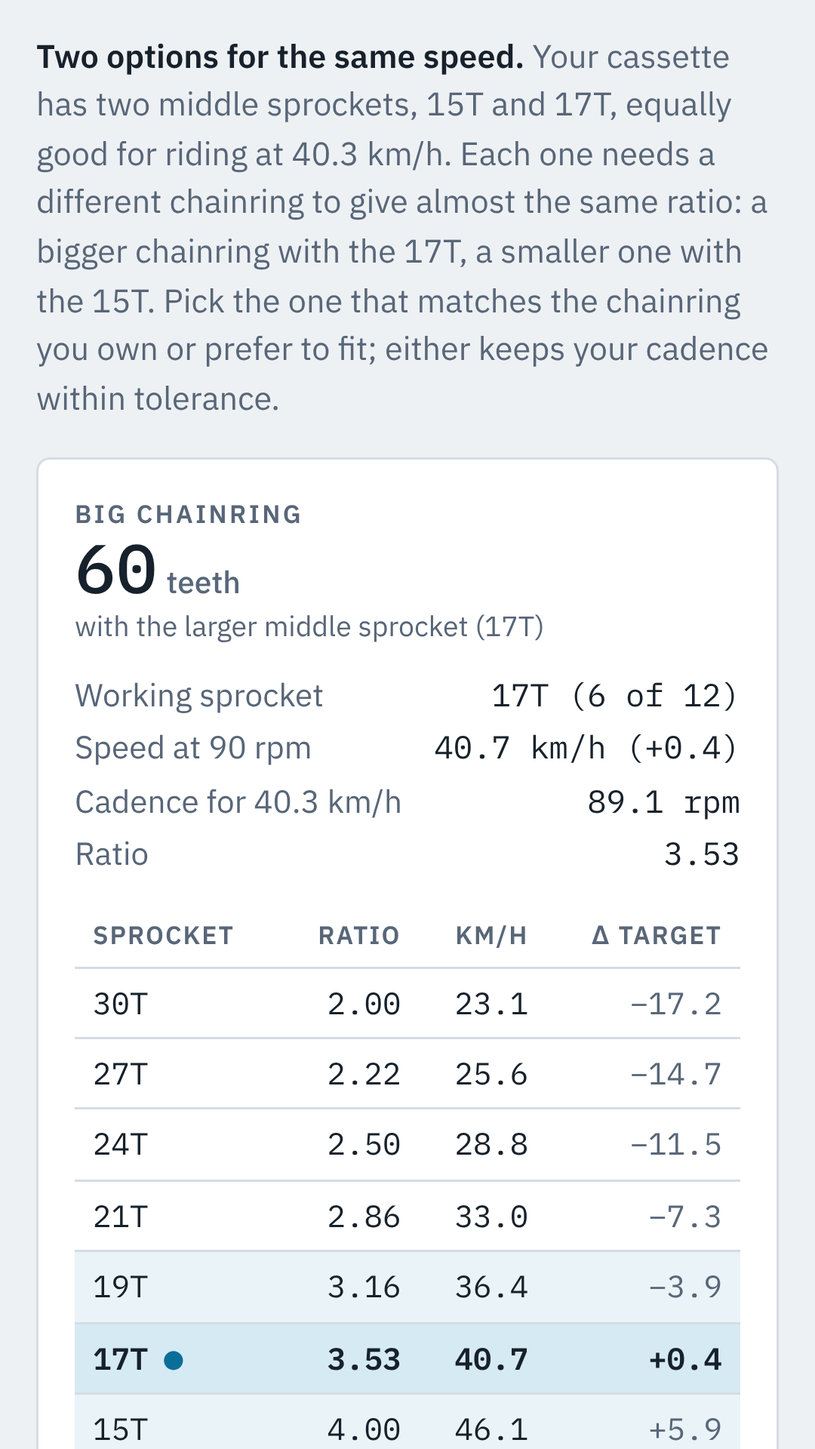
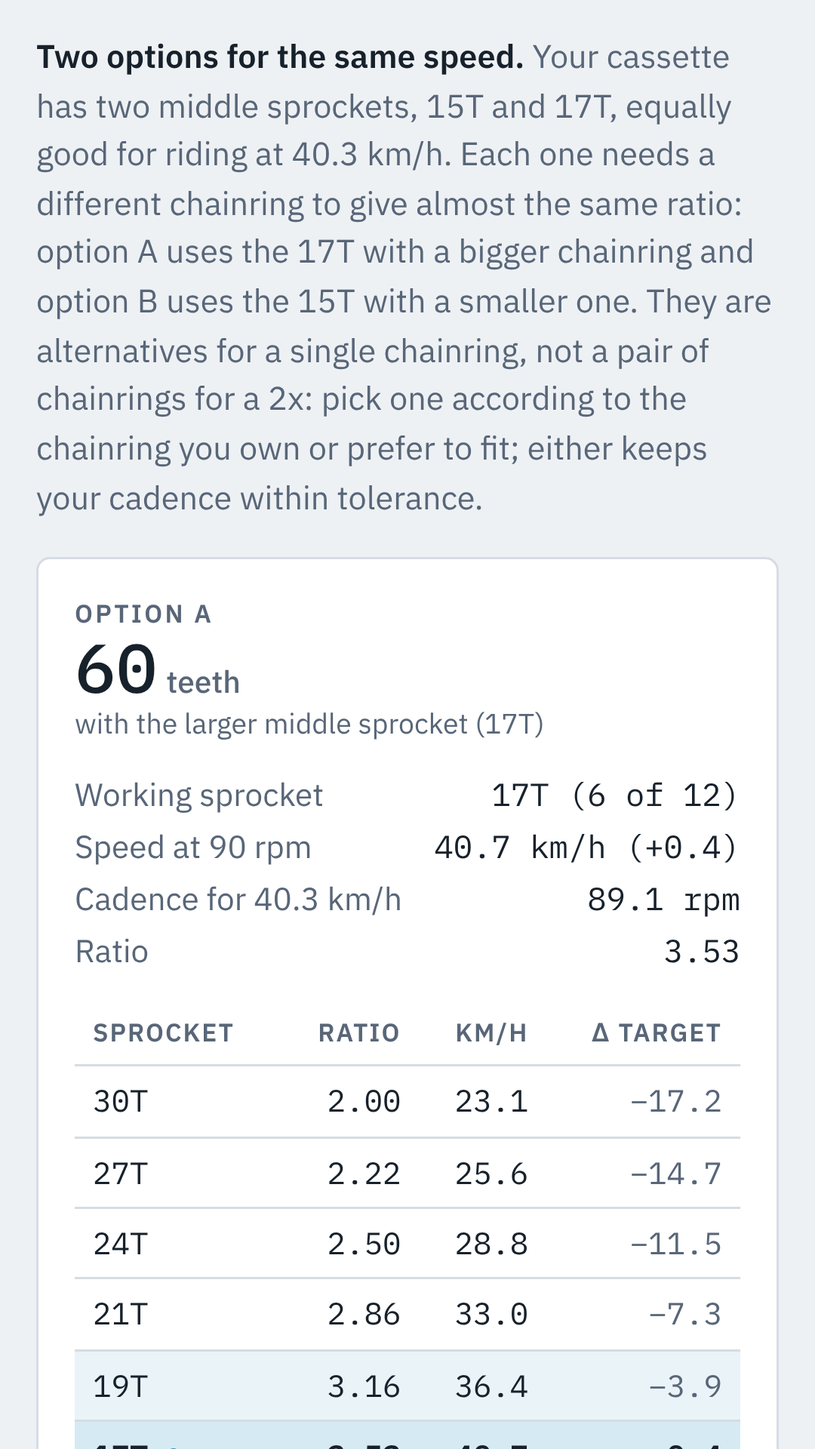
feat: etiquetas «Opción A» y «Opción B» en lugar de plato grande/pequeño
«Plato grande» y «plato pequeño» podían confundirse con una pareja de platos de un 2x.
Las dos tarjetas pasan a llamarse Opción A (piñón central mayor) y Opción B (piñón central
menor), y la explicación aclara que son alternativas para un mismo plato.
Textos, README, CHANGELOG, ficha de Play, manifest y capturas/gráfico de Play actualizados.

Claude-Session: https://claude.ai/code/session_01HU79VpV1XnotLDyT5Vd8zc

diff --git a/index.html b/index.html
@@ -4,7 +4,7 @@
 <meta charset="utf-8">
 <meta name="viewport" content="width=device-width, initial-scale=1, viewport-fit=cover">
 <title>Calculadora de desarrollos</title>
-<meta name="description" content="Calculadora de desarrollos para triatlón y contrarreloj: encuentra el plato con la mejor línea de cadena para tu velocidad objetivo: una opción grande y otra pequeña, según el piñón central que prefieras.">
+<meta name="description" content="Calculadora de desarrollos para triatlón y contrarreloj: encuentra el plato con la mejor línea de cadena para tu velocidad objetivo, con dos opciones según el piñón central que prefieras.">
 <meta name="theme-color" content="#EEF1F4">
 <meta name="color-scheme" content="light dark">
 <meta name="mobile-web-app-capable" content="yes">
@@ -322,7 +322,7 @@ function better(a, b) { // a mejor que b: más centrado, y a igualdad menor erro
   return a.off < b.off || (a.off === b.off && Math.abs(a.dv) < Math.abs(b.dv));
 }
 // Solo platos de dentado par. Se proponen hasta dos platos, cada uno anclado a uno de los dos piñones centrales de la banda:
-// «high» = el piñón central mayor (da el plato más grande) y «low» = el menor (da el plato más pequeño). En cada ancla se elige el plato par
+// «high» (Opción A) = el piñón central mayor, que pide el plato mayor, y «low» (Opción B) = el menor, que pide el plato menor. En cada ancla se elige el plato par
 // que encaja con menor error de velocidad. Anclar siempre al mismo piñón hace que, al subir la potencia, el plato propuesto solo suba o se mantenga
 // (salvo en los extremos del rango de platos). Con un solo piñón central (banda de nº impar) hay una única propuesta, «one».
 // Si ninguna ancla tiene plato que encaje pero otros sí, se propone el mejor de ellos (más centrado y, a igualdad, menor error de velocidad).
@@ -386,7 +386,7 @@ function parseCogs(text) {
 var DICT = {
   es: {
     title: "Calculadora de desarrollos",
-    sub: "Triatlón y contrarreloj. Encuentra el plato con la mejor línea de cadena para tu velocidad de carrera (piñones centrales del cassette, a tu cadencia): una opción de plato grande y otra de plato pequeño.",
+    sub: "Triatlón y contrarreloj. Encuentra el plato con la mejor línea de cadena para tu velocidad de carrera (piñones centrales del cassette, a tu cadencia), con dos opciones alternativas.",
     lbl_cassette: "Cassette instalado", lbl_custom: "Dientes del cassette (11–13)",
     lbl_power: "Potencia media objetivo (W)", lbl_cad: "Cadencia media objetivo (rpm)", lbl_cda: "CdA (m²)",
     adv: "Ajustes avanzados", lbl_mass: "Masa ciclista + bici (kg)", lbl_crr: "Crr (rodadura)", lbl_rho: "Densidad del aire (kg/m³)",
@@ -399,7 +399,7 @@ var DICT = {
     lbl_vforce: "Forzar velocidad (km/h)", ph_vforce: "desde potencia", hint_vforce: "Si lo rellenas, ignora potencia y CdA",
     lbl_ftp: "FTP (W)", ph_ftp: "opcional", hint_ftp: "Con FTP, la tabla de subidas muestra también el % de FTP",
     c_title: "Subidas: coste de cada marcha a {cad} rpm", c_chain: "Plato",
-    c_sub: "Potencia necesaria (W) para mantener la velocidad de cada piñón a {cad} rpm en cada pendiente, sin viento y a velocidad constante. Con el plato grande y piñones pequeños en cuesta salen cifras inasumibles: está pensado para ver ese coste.",
+    c_sub: "Potencia necesaria (W) para mantener la velocidad de cada piñón a {cad} rpm en cada pendiente, sin viento y a velocidad constante. Con un plato grande y piñones pequeños en cuesta salen cifras inasumibles: está pensado para ver ese coste.",
     c_grade: "Pendiente", c_cog: "Piñón", c_hidden: "— = más de {w} W (oculto)", c_noftp: "Introduce tu FTP para ver también el % de FTP y el rango de esfuerzo de cada celda.",
     c_zones: "Esfuerzo típico según el % de FTP (IF)",
     z0: "Rodajes de recuperación", z1: "Entrenamiento en ritmo de resistencia",
@@ -423,21 +423,21 @@ var DICT = {
     w_norange: "El rango de platos no contiene ningún dentado par.",
     w_none: "Ningún plato par entre {min} y {max}T deja {v} km/h dentro de la banda central, a ±{tol} rpm de tu cadencia, con este cassette. El más próximo es {c}T, que cae en el piñón de {g}T ({cn} rpm para la velocidad objetivo). Amplía el rango de platos, sube la tolerancia o cambia de cassette.",
     w_anchor: "No hay opción con el piñón central de {g}T: ningún plato par entre {lo} y {hi}T encaja con él a ±{tol} rpm de tu cadencia. Amplía el rango de platos en los ajustes avanzados o sube la tolerancia.",
-    tag_high: "Plato grande", tag_low: "Plato pequeño", tag_one: "Plato propuesto",
+    tag_high: "Opción A", tag_low: "Opción B", tag_one: "Plato propuesto",
     anchor_high: "con el piñón central mayor ({g}T)", anchor_low: "con el piñón central menor ({g}T)", anchor_one: "con el piñón de {g}T",
-    expl_two: "<strong>Dos opciones para la misma velocidad.</strong> Tu cassette tiene dos piñones centrales, {lo}T y {hi}T, igual de buenos para ir a {v} km/h. Cada uno pide un plato distinto para dar casi la misma relación: con el {hi}T, un plato más grande, y con el {lo}T, uno más pequeño. Elige según el plato que tengas o prefieras montar; con cualquiera de los dos mantienes tu cadencia dentro de la tolerancia.",
+    expl_two: "<strong>Dos opciones para la misma velocidad.</strong> Tu cassette tiene dos piñones centrales, {lo}T y {hi}T, igual de buenos para ir a {v} km/h. Cada uno pide un plato distinto para dar casi la misma relación: la opción A usa el {hi}T con un plato mayor y la opción B usa el {lo}T con un plato menor. Son alternativas para un mismo plato, no una pareja de platos de un 2x: elige una según el plato que tengas o prefieras montar; con cualquiera de las dos mantienes tu cadencia dentro de la tolerancia.",
     expl_one: "<strong>Plato propuesto.</strong> Tu cassette tiene un único piñón central ({g}T) y es el que mejor encaja para ir a {v} km/h con tu cadencia.",
     chip_cad: "Cadencia fuera de tolerancia", chip_band: "Fuera de la banda central", teeth: "dientes",
     k_work: "Piñón de trabajo", k_work_v: "{g}T ({pos} de {n})", k_speed: "Velocidad a {cad} rpm", k_cad: "Cadencia para {v} km/h", k_ratio: "Relación",
     th_cog: "Piñón", th_ratio: "Relación", th_kmh: "km/h", th_delta: "Δ obj.", mark_work: "piñón de trabajo", th_chain: "Plato",
     m_sum: "Ensayo completo: velocidad (km/h) de cada plato con cada piñón a {cad} rpm", m_band: "Banda central", m_near: "Piñón más cercano a {v} km/h",
-    n_crit: "<strong>Criterio.</strong> Para cada plato se busca el piñón cuya velocidad a tu cadencia queda más cerca de la objetivo. El plato encaja si ese piñón está en la banda central y la cadencia necesaria para la velocidad objetivo queda dentro de la tolerancia (±{tol} rpm). Se proponen hasta dos platos de dentado par que encajan, cada uno apoyado en uno de los dos piñones centrales de la banda (el mayor da el plato grande y el menor, el pequeño); en cada uno se elige el de menor error de velocidad. Con un número impar de piñones en la banda solo hay un piñón central y una única propuesta. Al apoyar cada opción siempre en el mismo piñón, al subir la potencia el plato propuesto solo sube o se mantiene (salvo en los extremos del rango de platos ensayado).",
+    n_crit: "<strong>Criterio.</strong> Para cada plato se busca el piñón cuya velocidad a tu cadencia queda más cerca de la objetivo. El plato encaja si ese piñón está en la banda central y la cadencia necesaria para la velocidad objetivo queda dentro de la tolerancia (±{tol} rpm). Se proponen hasta dos platos de dentado par que encajan, cada uno apoyado en uno de los dos piñones centrales de la banda (el mayor es la opción A y el menor, la opción B); en cada uno se elige el de menor error de velocidad. Con un número impar de piñones en la banda solo hay un piñón central y una única propuesta. Al apoyar cada opción siempre en el mismo piñón, al subir la potencia el plato propuesto solo sube o se mantiene (salvo en los extremos del rango de platos ensayado).",
     n_model: "<strong>Modelo.</strong> Potencia en rueda = potencia × eficiencia = ½·ρ·CdA·v³ + Crr·m·g·v, en llano y sin viento. Con subidas o viento la velocidad media real cambia y con ella el piñón óptimo (la tabla de subidas muestra el coste en cuesta). Se asume plato único (1x) o el plato grande en un 2x.",
     n_cogs: "<strong>Dentados.</strong> Los dentados de SRAM (Red/Force 11 y 12 velocidades, XPLR 13) están contrastados con fichas del fabricante y tiendas; los de Shimano son los habituales de la serie. Comprueba el tuyo y, si difiere, usa «Personalizado»."
   },
   en: {
     title: "Gear calculator",
-    sub: "Triathlon and time trial. Finds the chainring with the best chain line for your race speed (middle sprockets of the cassette, at your cadence): one big-chainring option and one small-chainring option.",
+    sub: "Triathlon and time trial. Finds the chainring with the best chain line for your race speed (middle sprockets of the cassette, at your cadence): two alternative options.",
     lbl_cassette: "Installed cassette", lbl_custom: "Cassette teeth (11–13)",
     lbl_power: "Target average power (W)", lbl_cad: "Target average cadence (rpm)", lbl_cda: "CdA (m²)",
     adv: "Advanced settings", lbl_mass: "Rider + bike mass (kg)", lbl_crr: "Crr (rolling resistance)", lbl_rho: "Air density (kg/m³)",
@@ -450,7 +450,7 @@ var DICT = {
     lbl_vforce: "Force speed (km/h)", ph_vforce: "from power", hint_vforce: "If filled in, power and CdA are ignored",
     lbl_ftp: "FTP (W)", ph_ftp: "optional", hint_ftp: "With FTP, the climbing table also shows % of FTP",
     c_title: "Climbs: cost of each gear at {cad} rpm", c_chain: "Chainring",
-    c_sub: "Power needed (W) to hold the speed of each sprocket at {cad} rpm on each gradient, with no wind and at constant speed. Big chainring plus small sprockets uphill gives unsustainable figures: that is the point, to show the cost.",
+    c_sub: "Power needed (W) to hold the speed of each sprocket at {cad} rpm on each gradient, with no wind and at constant speed. A big chainring plus small sprockets uphill gives unsustainable figures: that is the point, to show the cost.",
     c_grade: "Gradient", c_cog: "Sprocket", c_hidden: "— = more than {w} W (hidden)", c_noftp: "Enter your FTP to also see the % of FTP and the effort range of each cell.",
     c_zones: "Typical effort by % of FTP (IF)",
     z0: "Recovery rides", z1: "Endurance-pace training rides",
@@ -474,15 +474,15 @@ var DICT = {
     w_norange: "The chainring range contains no even tooth count.",
     w_none: "No even-numbered chainring between {min} and {max}T keeps {v} km/h inside the central band within ±{tol} rpm of your cadence with this cassette. The closest is {c}T, which lands on the {g}T sprocket ({cn} rpm for the target speed). Widen the chainring range, raise the tolerance or change cassette.",
     w_anchor: "No option with the {g}T middle sprocket: no even-numbered chainring between {lo} and {hi}T fits it within ±{tol} rpm of your cadence. Widen the chainring range in the advanced settings or raise the tolerance.",
-    tag_high: "Big chainring", tag_low: "Small chainring", tag_one: "Proposed chainring",
+    tag_high: "Option A", tag_low: "Option B", tag_one: "Proposed chainring",
     anchor_high: "with the larger middle sprocket ({g}T)", anchor_low: "with the smaller middle sprocket ({g}T)", anchor_one: "with the {g}T sprocket",
-    expl_two: "<strong>Two options for the same speed.</strong> Your cassette has two middle sprockets, {lo}T and {hi}T, equally good for riding at {v} km/h. Each one needs a different chainring to give almost the same ratio: a bigger chainring with the {hi}T, a smaller one with the {lo}T. Pick the one that matches the chainring you own or prefer to fit; either keeps your cadence within tolerance.",
+    expl_two: "<strong>Two options for the same speed.</strong> Your cassette has two middle sprockets, {lo}T and {hi}T, equally good for riding at {v} km/h. Each one needs a different chainring to give almost the same ratio: option A uses the {hi}T with a bigger chainring and option B uses the {lo}T with a smaller one. They are alternatives for a single chainring, not a pair of chainrings for a 2x: pick one according to the chainring you own or prefer to fit; either keeps your cadence within tolerance.",
     expl_one: "<strong>Proposed chainring.</strong> Your cassette has a single middle sprocket ({g}T) and it is the best fit for riding at {v} km/h at your cadence.",
     chip_cad: "Cadence out of tolerance", chip_band: "Outside central band", teeth: "teeth",
     k_work: "Working sprocket", k_work_v: "{g}T ({pos} of {n})", k_speed: "Speed at {cad} rpm", k_cad: "Cadence for {v} km/h", k_ratio: "Ratio",
     th_cog: "Sprocket", th_ratio: "Ratio", th_kmh: "km/h", th_delta: "Δ target", mark_work: "working sprocket", th_chain: "Chainring",
     m_sum: "Full trial: speed (km/h) of each chainring on each sprocket at {cad} rpm", m_band: "Central band", m_near: "Sprocket closest to {v} km/h",
-    n_crit: "<strong>Criterion.</strong> For each chainring, the sprocket whose speed at your cadence is closest to the target is picked. The chainring fits if that sprocket is in the central band and the cadence needed for the target speed is within the tolerance (±{tol} rpm). Up to two even-toothed chainrings that fit are proposed, each based on one of the two middle sprockets of the band (the larger gives the big chainring, the smaller gives the small one); in each case the one with the smaller speed error is chosen. With an odd number of sprockets in the band there is a single middle sprocket and a single proposal. Because each option always rests on the same sprocket, the proposed chainring only goes up or stays the same as power rises (except at the ends of the tested chainring range).",
+    n_crit: "<strong>Criterion.</strong> For each chainring, the sprocket whose speed at your cadence is closest to the target is picked. The chainring fits if that sprocket is in the central band and the cadence needed for the target speed is within the tolerance (±{tol} rpm). Up to two even-toothed chainrings that fit are proposed, each based on one of the two middle sprockets of the band (the larger is option A and the smaller is option B); in each case the one with the smaller speed error is chosen. With an odd number of sprockets in the band there is a single middle sprocket and a single proposal. Because each option always rests on the same sprocket, the proposed chainring only goes up or stays the same as power rises (except at the ends of the tested chainring range).",
     n_model: "<strong>Model.</strong> Wheel power = power × efficiency = ½·ρ·CdA·v³ + Crr·m·g·v, on flat ground with no wind. With climbs or wind the real average speed changes, and so does the best sprocket (the climbing table shows the uphill cost). It assumes a single chainring (1x) or the big ring of a 2x.",
     n_cogs: "<strong>Tooth counts.</strong> SRAM tooth counts (Red/Force 11- and 12-speed, XPLR 13-speed) were checked against manufacturer sheets and retailers; Shimano ones are the usual counts for the series. Check yours and, if it differs, use “Custom”."
   }

diff --git a/README.md b/README.md
@@ -2,7 +2,7 @@
 
 **App (PWA):** https://lsantome.github.io/TriTT-Gear-Calculator/
 
-Calculadora para triatlón y contrarreloj. Dado el cassette, la potencia media y la cadencia objetivo, estima la velocidad en llano y propone **dos platos de dentado par** con la mejor línea de cadena —uno **grande** y otro **pequeño**, según cuál de los dos piñones centrales del cassette prefieras usar—, junto con la tabla de velocidades de cada marcha y una tabla de **subidas** (potencia y % de FTP por pendiente). También puede analizar un **plato fijo** que tú indiques, sin simulación. Funciona sin conexión.
+Calculadora para triatlón y contrarreloj. Dado el cassette, la potencia media y la cadencia objetivo, estima la velocidad en llano y propone **dos opciones alternativas de plato** (A y B, de dentado par) con la mejor línea de cadena, según cuál de los dos piñones centrales del cassette prefieras usar, junto con la tabla de velocidades de cada marcha y una tabla de **subidas** (potencia y % de FTP por pendiente). También puede analizar un **plato fijo** que tú indiques, sin simulación. Funciona sin conexión.
 
 - Español e inglés (español por defecto) y modo claro/oscuro (claro por defecto).
 - Cassettes SRAM Red/Force de 11, 12 y 13 velocidades, Shimano de 11 y 12 velocidades y cassette personalizado de 11 a 13 piñones.
@@ -19,8 +19,8 @@ Calculadora para triatlón y contrarreloj. Dado el cassette, la potencia media y
 1. Elige el cassette (o escribe los piñones en «Personalizado»).
 2. Indica potencia media, cadencia objetivo y CdA (0,23 m² por defecto). La velocidad objetivo se calcula con el modelo de abajo.
 3. Ajusta el rango de platos a simular, o fija un plato concreto.
-4. Lee las dos tarjetas (Plato grande / Plato pequeño) y la tabla de velocidades por marcha. La explicación sobre ellas dice cuándo elegir cada una.
-5. **Subidas.** La tabla «Subidas» da la potencia que cuesta mantener, a tu cadencia objetivo, la velocidad de cada piñón en pendientes del 0 al 15 % (elige Plato grande o Plato pequeño). Si indicas tu **FTP**, cada celda muestra también el % de FTP y se colorea según el esfuerzo típico de ese rango (leyenda bajo la tabla). Las celdas de más de 1000 W se ocultan.
+4. Lee las dos tarjetas (Opción A / Opción B) y la tabla de velocidades por marcha. Son **alternativas para un mismo plato** (no una pareja de platos de un 2x) y la explicación sobre ellas dice cuándo elegir cada una.
+5. **Subidas.** La tabla «Subidas» da la potencia que cuesta mantener, a tu cadencia objetivo, la velocidad de cada piñón en pendientes del 0 al 15 % (elige Opción A u Opción B). Si indicas tu **FTP**, cada celda muestra también el % de FTP y se colorea según el esfuerzo típico de ese rango (leyenda bajo la tabla). Las celdas de más de 1000 W se ocultan.
 
 La versión instalada se ve bajo el título: `v1.0.0 · build abc1234 · 2026-10-23` (`desarrollo` si se abre `index.html` sin compilar).
 
@@ -28,7 +28,7 @@ La versión instalada se ve bajo el título: `v1.0.0 · build abc1234 · 2026-10
 
 Potencia en rueda = potencia × eficiencia = ½·ρ·CdA·v³ + Crr·m·g·v, en llano y sin viento. En la tabla de subidas se añade la gravedad: potencia en pedal = (½·ρ·CdA·v³ + m·g·v·(Crr·cosθ + sinθ)) ÷ eficiencia, con θ = arctan(pendiente), velocidad constante, sin viento ni inercias. Valores por defecto: CdA 0,23 m², masa 85 kg, Crr 0,004, ρ 1,19 kg/m³, eficiencia 97,5 %, rueda 700×28c (2136 mm).
 
-Solo se simulan platos de dentado par. Para cada uno se busca el piñón más cercano a la velocidad objetivo; **encaja** si ese piñón está en la banda central del cassette (un tercio de los piñones, mínimo 3) y la cadencia necesaria queda dentro de la tolerancia (±6 rpm por defecto). Con un número par de piñones en la banda central hay **dos piñones centrales** igual de buenos, y cada uno pide un plato distinto para dar casi la misma relación: el **plato grande** se apoya en el piñón central mayor y el **plato pequeño** en el menor; en cada uno se elige el plato par que encaja con menor error de velocidad. Si la banda tiene un número impar de piñones, hay un único piñón central y una única propuesta. La app avisa si alguna de las dos opciones no tiene plato que encaje dentro del rango ensayado.
+Solo se simulan platos de dentado par. Para cada uno se busca el piñón más cercano a la velocidad objetivo; **encaja** si ese piñón está en la banda central del cassette (un tercio de los piñones, mínimo 3) y la cadencia necesaria queda dentro de la tolerancia (±6 rpm por defecto). Con un número par de piñones en la banda central hay **dos piñones centrales** igual de buenos, y cada uno pide un plato distinto para dar casi la misma relación: la **opción A** se apoya en el piñón central mayor (y pide el plato mayor) y la **opción B** en el menor (y pide el plato menor); no son dos platos de un 2x, sino alternativas para un mismo plato; en cada uno se elige el plato par que encaja con menor error de velocidad. Si la banda tiene un número impar de piñones, hay un único piñón central y una única propuesta. La app avisa si alguna de las dos opciones no tiene plato que encaje dentro del rango ensayado.
 
 Anclar cada opción siempre al mismo piñón hace que, al subir la potencia, el plato propuesto solo suba o se mantenga. Con los ajustes por defecto (90 rpm, rango 48–68 T) esto se comprueba en las pruebas para todos los cassettes de la lista de 150 a 400 W, salvo en los extremos del rango (≤ 50 T o ≥ 66 T), donde la familia de platos puede salirse del rango; si cambias la cadencia o la tolerancia, no está garantizado.
 

diff --git a/docs/play-store/ficha.md b/docs/play-store/ficha.md
@@ -22,7 +22,7 @@ Calculadora de desarrollos para triatlón y contrarreloj. Dices qué cassette mo
 
 QUÉ HACE
 • Estima la velocidad a partir de tu potencia con un modelo físico: resistencia aerodinámica (CdA, densidad del aire), rodadura (masa, Crr), eficiencia de la transmisión y circunferencia de la rueda.
-• Propone dos platos de dentado par con la mejor línea de cadena, uno grande y otro pequeño, según cuál de los dos piñones centrales del cassette prefieras usar, con una explicación de cuándo elegir cada uno.
+• Propone dos opciones alternativas de plato de dentado par con la mejor línea de cadena (opción A y opción B), según cuál de los dos piñones centrales del cassette prefieras usar, con una explicación de cuándo elegir cada una.
 • Tabla de subidas: potencia necesaria con cada piñón a tu cadencia en pendientes del 0 al 15 %. Si indicas tu FTP, muestra también el % de FTP con rangos de esfuerzo.
 • Muestra, para cada propuesta, el piñón de trabajo, la velocidad que da a tu cadencia, la cadencia necesaria para tu velocidad objetivo y una tabla con la velocidad de cada marcha.
 • Modo de plato fijo: indica el plato que ya montas y analiza solo ese, sin simular otros tamaños.
@@ -67,7 +67,7 @@ Gear calculator for triathlon and time trial. Tell it which cassette you run and
 
 WHAT IT DOES
 • Estimates speed from your power with a physical model: aerodynamic drag (CdA, air density), rolling resistance (mass, Crr), drivetrain efficiency and wheel circumference.
-• Suggests two even-toothed chainrings with the best chain line, a big one and a small one, depending on which of the cassette's two middle sprockets you prefer to use, with an explanation of when to pick each.
+• Suggests two alternative even-toothed chainring options with the best chain line (option A and option B), depending on which of the cassette's two middle sprockets you prefer to use, with an explanation of when to pick each.
 • Climbing table: power needed on each sprocket at your cadence on gradients from 0 to 15 %. If you enter your FTP it also shows % of FTP with effort ranges.
 • For each suggestion it shows the working sprocket, the speed it gives at your cadence, the cadence needed for your target speed and a table with the speed in every gear.
 • Fixed chainring mode: enter the chainring you already run and only that one is analysed, with no other sizes simulated.

diff --git a/CHANGELOG.md b/CHANGELOG.md
@@ -5,11 +5,11 @@ Formato basado en [Keep a Changelog](https://keepachangelog.com/es-ES/1.1.0/) y 
 ## [Sin publicar]
 
 ### Cambiado
-- Los tres platos Grande / Medio / Bajo (Medio ±2 dientes) pasan a **dos opciones**: «Plato grande» y «Plato pequeño», apoyadas respectivamente en el piñón central mayor y en el menor del cassette, con una explicación para el usuario. Así el plato propuesto ya no salta entre dos familias al subir la potencia (antes, p. ej. 56 → 50 → 58 → 52 T entre 200 y 220 W en un 10-30). Con una banda de nº impar de piñones hay una única propuesta. Cierra el pendiente del desempate de «Medio».
+- Los tres platos Grande / Medio / Bajo (Medio ±2 dientes) pasan a **dos opciones alternativas**: «Opción A» y «Opción B», apoyadas respectivamente en el piñón central mayor y en el menor del cassette (alternativas para un mismo plato, no un 2x), con una explicación para el usuario. Así el plato propuesto ya no salta entre dos familias al subir la potencia (antes, p. ej. 56 → 50 → 58 → 52 T entre 200 y 220 W en un 10-30). Con una banda de nº impar de piñones hay una única propuesta. Cierra el pendiente del desempate de «Medio».
 - Capturas y gráfico de funciones de la ficha de Google Play regenerados con la nueva interfaz; se añade una captura de la tabla de subidas.
 
 ### Añadido
-- Tabla «Subidas»: potencia necesaria (W) para mantener la velocidad de cada piñón a la cadencia objetivo en pendientes del 0 al 15 %, para el plato Grande, Medio o Bajo (o el fijo). Nueva entrada opcional **FTP**: la tabla añade el % de FTP y colorea cada celda por rango de esfuerzo, con leyenda. Las celdas de más de 1000 W se ocultan.
+- Tabla «Subidas»: potencia necesaria (W) para mantener la velocidad de cada piñón a la cadencia objetivo en pendientes del 0 al 15 %, para la opción A o B (o el plato fijo). Nueva entrada opcional **FTP**: la tabla añade el % de FTP y colorea cada celda por rango de esfuerzo, con leyenda. Las celdas de más de 1000 W se ocultan.
 - `privacidad.html`: política de privacidad pública en español e inglés, publicada con la PWA (exigida por Google Play).
 - `docs/play-store/`: textos de la ficha (ES/EN), guía de declaraciones y prueba cerrada de Google Play, y gráficos (icono, gráfico de funciones y capturas).
 
